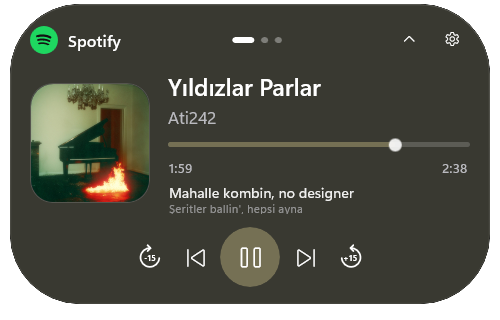
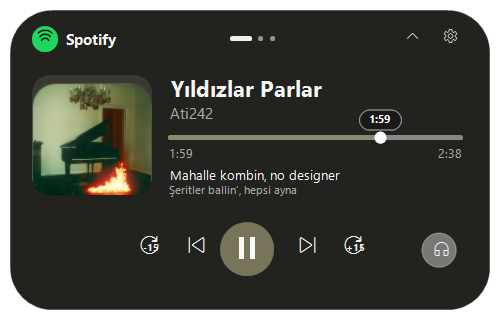
docs: refresh showcase screenshots and document v2.1 audio route switcher, seekbar preview, and test suite

diff --git a/README.md b/README.md
@@ -7,7 +7,7 @@
 [![NET 9](https://img.shields.io/badge/.NET-9.0-512BD4?style=for-the-badge&logo=dotnet)](https://dotnet.microsoft.com/)
 [![WinUI 3](https://img.shields.io/badge/WinUI-3.0-0078D4?style=for-the-badge&logo=windows11)](https://learn.microsoft.com/en-us/windows/apps/winui/winui3/)
 [![Windows App SDK](https://img.shields.io/badge/WindowsAppSDK-2.5.1-0078D4?style=for-the-badge)](https://github.com/microsoft/windowsappsdk)
-[![Tests](https://img.shields.io/badge/Tests-172%20Passing-30D158?style=for-the-badge)](tests/Pulse.Tests)
+[![Tests](https://img.shields.io/badge/Tests-342%20Passing-30D158?style=for-the-badge)](tests/Pulse.Tests)
 [![License](https://img.shields.io/badge/License-MIT-green?style=for-the-badge)](LICENSE)
 
 *Pulse brings a sleek, GPU-animated Liquid Glass Dynamic Island experience to Windows 11 — combining native system media control, synced lyrics, adaptive album-art frost, a monochrome Pomodoro focus timer, a matching system control panel, real-time OS notifications, and a smart idle strip for time, date and weather.*
@@ -17,14 +17,14 @@
 <p>
   <img src="docs/images/island-compact.png" width="340" alt="Pulse compact media pill capturing live Spotify playback with album art tint" />
 </p>
-<p><em><strong>Compact Media Pill:</strong> Live track artwork, artist/title metadata, play/pause toggle, and adaptive artwork color tinting inside a crisp GPU-clipped capsule.</em></p>
+<p><em><strong>Compact Media Pill:</strong> Live track artwork, artist/title metadata, play/pause toggle, and soft-blended artwork presentation without harsh borders inside a crisp GPU-clipped capsule.</em></p>
 
 <br />
 
 <p>
   <img src="docs/images/island-expanded-media.png" width="480" alt="Pulse expanded media dashboard with album artwork, seek bar, synced lyrics, and transport controls" />
 </p>
-<p><em><strong>Expanded Media Dashboard:</strong> Adaptive artwork frost tinting, drag-to-seek timeline, live synced <code>lrclib</code> lyrics (current + upcoming line), and transport controls. Tap the artwork to jump straight to the source app.</em></p>
+<p><em><strong>Expanded Media Dashboard:</strong> Adaptive artwork frost tinting, interactive drag-to-seek timeline with floating hover/scrub timestamp preview tooltip, live synced <code>lrclib</code> lyrics (current + upcoming line), transport controls, and an AirPlay-style audio route switcher button. Tap the artwork to jump straight to the source app.</em></p>
 
 <br />
 
@@ -38,7 +38,7 @@
 <p>
   <img src="docs/images/island-expanded-system.png" width="480" alt="Pulse system controls panel with volume slider, battery percentage, and screenshot capture" />
 </p>
-<p><em><strong>System &amp; Control Panel:</strong> Monochrome WASAPI master volume slider with mute toggle, semantic battery telemetry (green charging pulse, red low-battery warning), and one-click screenshot capture.</em></p>
+<p><em><strong>System &amp; Control Panel:</strong> Monochrome WASAPI master volume slider with mute toggle, semantic battery telemetry (green charging pulse, red low-battery warning), active Audio Output Endpoint switcher capsule (`Kulaklık / Hoparlör`), and one-click screenshot capture.</em></p>
 
 <br />
 
@@ -71,10 +71,10 @@
 - **Liquid-Glass Frost Engine**: Toggleable frosted glassmorphism (`LiquidGlassEngine` + `DesktopFrostService`) with a 0–100% transparency slider that samples and blurs the live desktop behind the island, adds an optical Fresnel highlight rim, and blends album-art accent tinting cleanly across Dark, Light, and System themes.
 - **Live Theme Switching (Dark / Light / System)**: Instant runtime `RequestedTheme` updates across the Island and Settings window without restarting the app.
 - **Smart Idle Strip**: When no media is playing, the compact pill displays a live clock, Turkish date, and Open-Meteo local weather (15-minute refresh, automatic `ipwho.is` IP lookup or manually verified city). Clock, date, and weather can each be toggled independently.
-- **Live Media Session Control**: Automatic integration with Windows System Media Transport Controls (GSMTC) for Spotify, Apple Music, YouTube, browsers, VLC, and more — featuring dynamic artwork caching, seekable progress bar, ±15s skip controls, and synced lyrics powered by `lrclib`.
+- **Live Media Session Control**: Automatic integration with Windows System Media Transport Controls (GSMTC) for Spotify, Apple Music, YouTube, browsers, VLC, and more — featuring dynamic artwork caching, seekable progress bar with floating timestamp tooltip preview, ±15s skip controls, synced lyrics powered by `lrclib`, and active audio route switching.
 - **Split Island**: Concurrent media playback and an active focus countdown automatically split into paired left/right capsules and merge seamlessly when either finishes.
 - **Focus Timer (Pomodoro)**: Monochrome preset chips (`25/50` work, `5/15` break), custom duration picker (`1–180` min), tabular countdown digits, session auto-switching, pinned capsule visibility, and optional completion chime.
-- **System & Control Panel**: Stepwise WASAPI master volume slider with neutral mute state, live battery & AC charging detection (green while charging with subtle pulse, red when low), and instant screenshot capture saved locally and copied to the clipboard.
+- **System & Control Panel**: Stepwise WASAPI master volume slider with neutral mute state, live audio output endpoint detection & quick switcher flyout, live battery & AC charging detection (green while charging with subtle pulse, red when low), and instant screenshot capture saved locally and copied to the clipboard.
 - **Real OS Event Awareness**:
   - **Windows Toast Listener**: Surfaces WhatsApp, Discord, browser, and system toast notifications directly inside the island.
   - **Bluetooth Device Alerts**: Announces headset and peripheral connections/battery level via Bluetooth radio monitoring.
@@ -82,7 +82,7 @@
 - **Apple-Style Alert Takeover & Deep Links**: Transient alerts briefly take over the pill and hand back to ongoing playback/focus cleanly; tapping artwork opens the source media app, and tapping alert capsules opens their file or folder.
 - **Fullscreen & Game Mode Recovery**: Automatically hides for exclusive and borderless fullscreen games (excluding normal maximized windows) and cleanly recovers island/playback state when exiting fullscreen.
 - **Single-Instance Guard & Tray Integration**: Re-launching Pulse brings up the existing instance, `--settings` routes directly to a single Settings window, global hotkeys (`Win+Alt+I`, `Win+Shift+F`), unstealable topmost `WM_WINDOWPOSCHANGING` handling, Windows Startup registry management, and full Reduced Motion compliance.
-- **Unit Tested Architecture**: Clean MVVM separation with platform-decoupled core state, animation layout, Liquid Glass math, and weather services (**172 automated xUnit tests**).
+- **Unit Tested Architecture**: Clean MVVM separation with platform-decoupled core state, animation layout, Liquid Glass math, and weather services (**342 automated xUnit tests**).
 
 ---
 
@@ -95,7 +95,7 @@
 - **Notifications & System APIs**: `UserNotificationListener` (Windows toasts), Bluetooth radio/device watcher, WASAPI endpoint volume, `GetSystemPowerStatus`, `FileSystemWatcher`, Win32 `SetWindowRgn` & global hotkeys
 - **Weather & Location**: Open-Meteo forecast & geocoding APIs, `ipwho.is` IP lookup, JSON disk caches
 - **MVVM & Serialization**: `CommunityToolkit.Mvvm`, source-generated `System.Text.Json` contexts
-- **Testing**: xUnit with Moq (172 unit tests)
+- **Testing**: xUnit with Moq (342 unit tests)
 
 ---
 
@@ -132,7 +132,7 @@ cd pulse
 # Build the solution (Release)
 dotnet build Pulse.sln -c Release
 
-# Run automated unit tests (172 tests)
+# Run automated unit tests (342 tests)
 dotnet test tests\Pulse.Tests\Pulse.Tests.csproj -c Release --no-build
 
 # Run the app
@@ -189,7 +189,7 @@ pulse/
 │       ├── Views/                  # Island & Settings windows
 │       └── Assets/                 # App icons and graphics
 ├── tests/
-│   └── Pulse.Tests/                # xUnit Automated Tests (172 tests)
+│   └── Pulse.Tests/                # xUnit Automated Tests (342 tests)
 ├── docs/
 │   └── images/                     # Live WinUI 3 application screenshots
 ├── Pulse.sln                       # Visual Studio / .NET Solution
